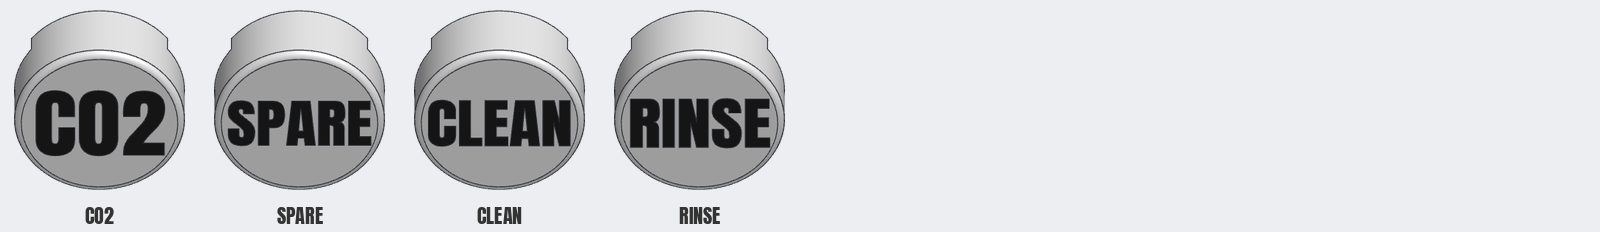
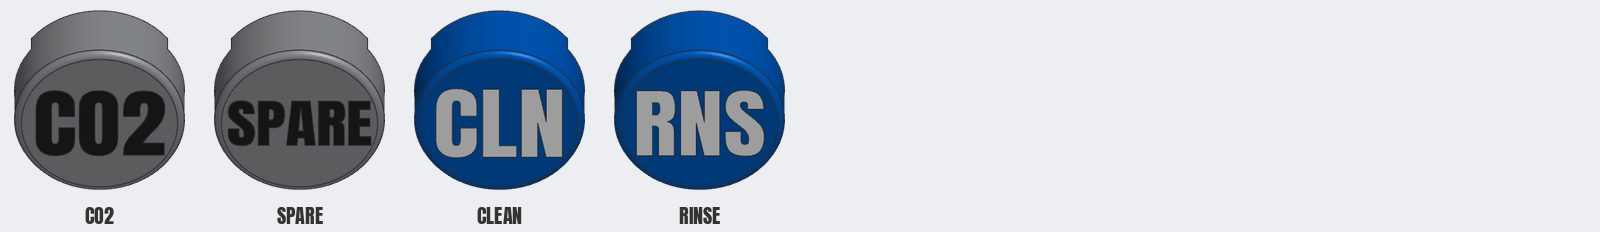
Labels: short codes with colours, as on the original caps
House labels are 2-4 letter codes (PJ, JAVA, CAMP) on coloured caps,
following the house lineup; the file keeps the drink's name. Drops house
caps that duplicate a catalogue cap. Gallery captions name the drink.

Changed region(s): [[0.0, 0.0302, 0.5, 0.8147]]

diff --git a/tools/gallery.py b/tools/gallery.py
@@ -13,8 +13,8 @@ from PIL import Image, ImageDraw, ImageFont
 
 ROOT = os.path.dirname(os.path.dirname(os.path.abspath(__file__)))
 # The caps of docs/sample.png, the picture at the top of the README.
-SAMPLE = ["B", "OJ", "DIET", "COKE", "TONIC", "SPRITE", "BMARY", "GINGER_ALE", "PICKLE_JUICE",
-          "WILD_CHERRY", "ST_GERMAIN", "CRANBERRY", "GRAPEFRUIT", "HFCS_55", "MOUNTAIN_DEW"]
+SAMPLE = ["PICKLE_JUICE", "COFFEE", "CAMPARI", "OJ", "COKE", "GIN", "IRISH_WHISKEY", "SPICY_GINGER",
+          "PASSION_FRUIT", "TONIC", "DIET", "SPRITE", "WILD_CHERRY", "BMARY", "B"]
 
 
 def slug(s):
@@ -34,7 +34,7 @@ def sheet(items, base, cols, tile, caption_px, out, fmt):
         im.thumbnail((int(tile * 0.9), int(tile * 0.9)), Image.LANCZOS)
         im_out.paste(im, (x + (tile - im.width) // 2, y + (tile - im.height) // 2), im)
         if font:
-            d.text((x + tile / 2, y + tile), m["label"].replace("|", " "), fill="#333333", font=font, anchor="ma")
+            d.text((x + tile / 2, y + tile), m["file"].replace("_", " "), fill="#333333", font=font, anchor="ma")
     if fmt == "jpg":
         im_out.save(out, quality=82, optimize=True, progressive=True)
     else:

diff --git a/README.md b/README.md
@@ -7,7 +7,8 @@
 [![Code: MIT](https://img.shields.io/badge/code-MIT-green)](LICENSE-MIT.txt)
 
 A bar gun has a row of small round buttons, one for each drink. This project makes replacement caps
-for them: a 10 mm cap with the drink's name inlaid in a second colour. There are caps for every label in
+for them: a 10 mm cap with a short code for the drink (PJ for pickle juice, JAVA for coffee) inlaid in a
+second colour. There are caps for every label in
 the commercial Wunder-Bar catalogue, and for many more drinks: spirits, juices, syrups, cocktails.
 
 Each cap is a two-colour print. The label is a 0.4 mm inlay, flush with the face, so it does not wear off.
@@ -33,7 +34,7 @@ Tips:
 ## All caps
 
 <!-- caps:start -->
-255 caps. Generated by `make docs` from `labels/round.csv`.
+227 caps. Generated by `make docs` from `labels/round.csv`.
 
 ### Letters and codes (31)
 
@@ -43,7 +44,7 @@ Tips:
 
 ![Wunder-Bar catalogue](docs/round-wunder-bar-catalogue.jpg)
 
-### Sodas and mixers (24)
+### Sodas and mixers (9)
 
 ![Sodas and mixers](docs/round-sodas-and-mixers.jpg)
 
@@ -51,11 +52,11 @@ Tips:
 
 ![Coffee, tea and milk](docs/round-coffee-tea-and-milk.jpg)
 
-### Juices and fruit (25)
+### Juices and fruit (17)
 
 ![Juices and fruit](docs/round-juices-and-fruit.jpg)
 
-### Syrups and flavours (15)
+### Syrups and flavours (13)
 
 ![Syrups and flavours](docs/round-syrups-and-flavours.jpg)
 
@@ -67,7 +68,7 @@ Tips:
 
 ![Wine and beer](docs/round-wine-and-beer.jpg)
 
-### Cocktails (14)
+### Cocktails (11)
 
 ![Cocktails](docs/round-cocktails.jpg)
 
@@ -86,7 +87,7 @@ Tips:
 ## Request a label
 
 Open an issue with the text you want, or add a row to `labels/round.csv` in a pull request.
-Short labels give the biggest letters: up to 5 or 6 characters stay above 3 mm.
+Use a short code: 2 to 4 characters give letters of 3.5 mm or more.
 
 ## Build
 
@@ -115,8 +116,8 @@ The labels are in `labels/<type>.csv`:
 
 | Column | Meaning |
 |---|---|
-| `file` | The output name: `<file>.3mf` and `<file>.png`. Each name must be unique. |
-| `label` | The text on the cap. A `\|` breaks the line at that point. |
+| `file` | The drink, and the output name: `<file>.3mf` and `<file>.png`. Each name must be unique. |
+| `label` | The text on the cap: a short code of 2 to 4 characters gives the biggest letters. A `\|` breaks the line at that point. |
 | `group` | The section of the gallery and of this README. |
 | `cap`, `letter` | Colour names for the preview and the 3MF material hint: White, Black, Grey, Red, Green, Blue, Yellow, Orange, Pink, Brown, Purple, Maroon, Burgundy. |
 | `source` | `wunderbar` for the labels of the commercial caps, `house` for the others. |

diff --git a/RELEASE_NOTES.md b/RELEASE_NOTES.md
@@ -1,6 +1,7 @@
-First release: 255 round caps for Wunder-Bar M4 bar guns.
+Labels now use short codes, as on the original caps: PJ for pickle juice, JAVA for coffee, CAMP for Campari.
 
-- 112 labels from the commercial Wunder-Bar round cap catalogue (single letters, COKE, TONIC, DIET, ...).
-- 143 more drinks: spirits, mixers, juices, syrups and cocktails.
-- Each 3MF is one object with two parts, `Cap` and `Label` (0.4 mm inlay). Print the face down.
-- Open `round/index.html` in the archive to see every cap.
+- 227 round caps: the 112 labels of the commercial Wunder-Bar catalogue, in the vendor colours, and 115 house codes.
+- The 3MF files have the drink's name (`PICKLE_JUICE.3mf`); the cap has the code (PJ).
+- House caps have their own colours, chosen for contrast on a 10 mm cap.
+- Drinks that a catalogue cap already covers (GALE, MTDEW, BMARY, ...) no longer have a second house cap.
+- Open `round/index.html` in the archive to see every cap, grouped.
